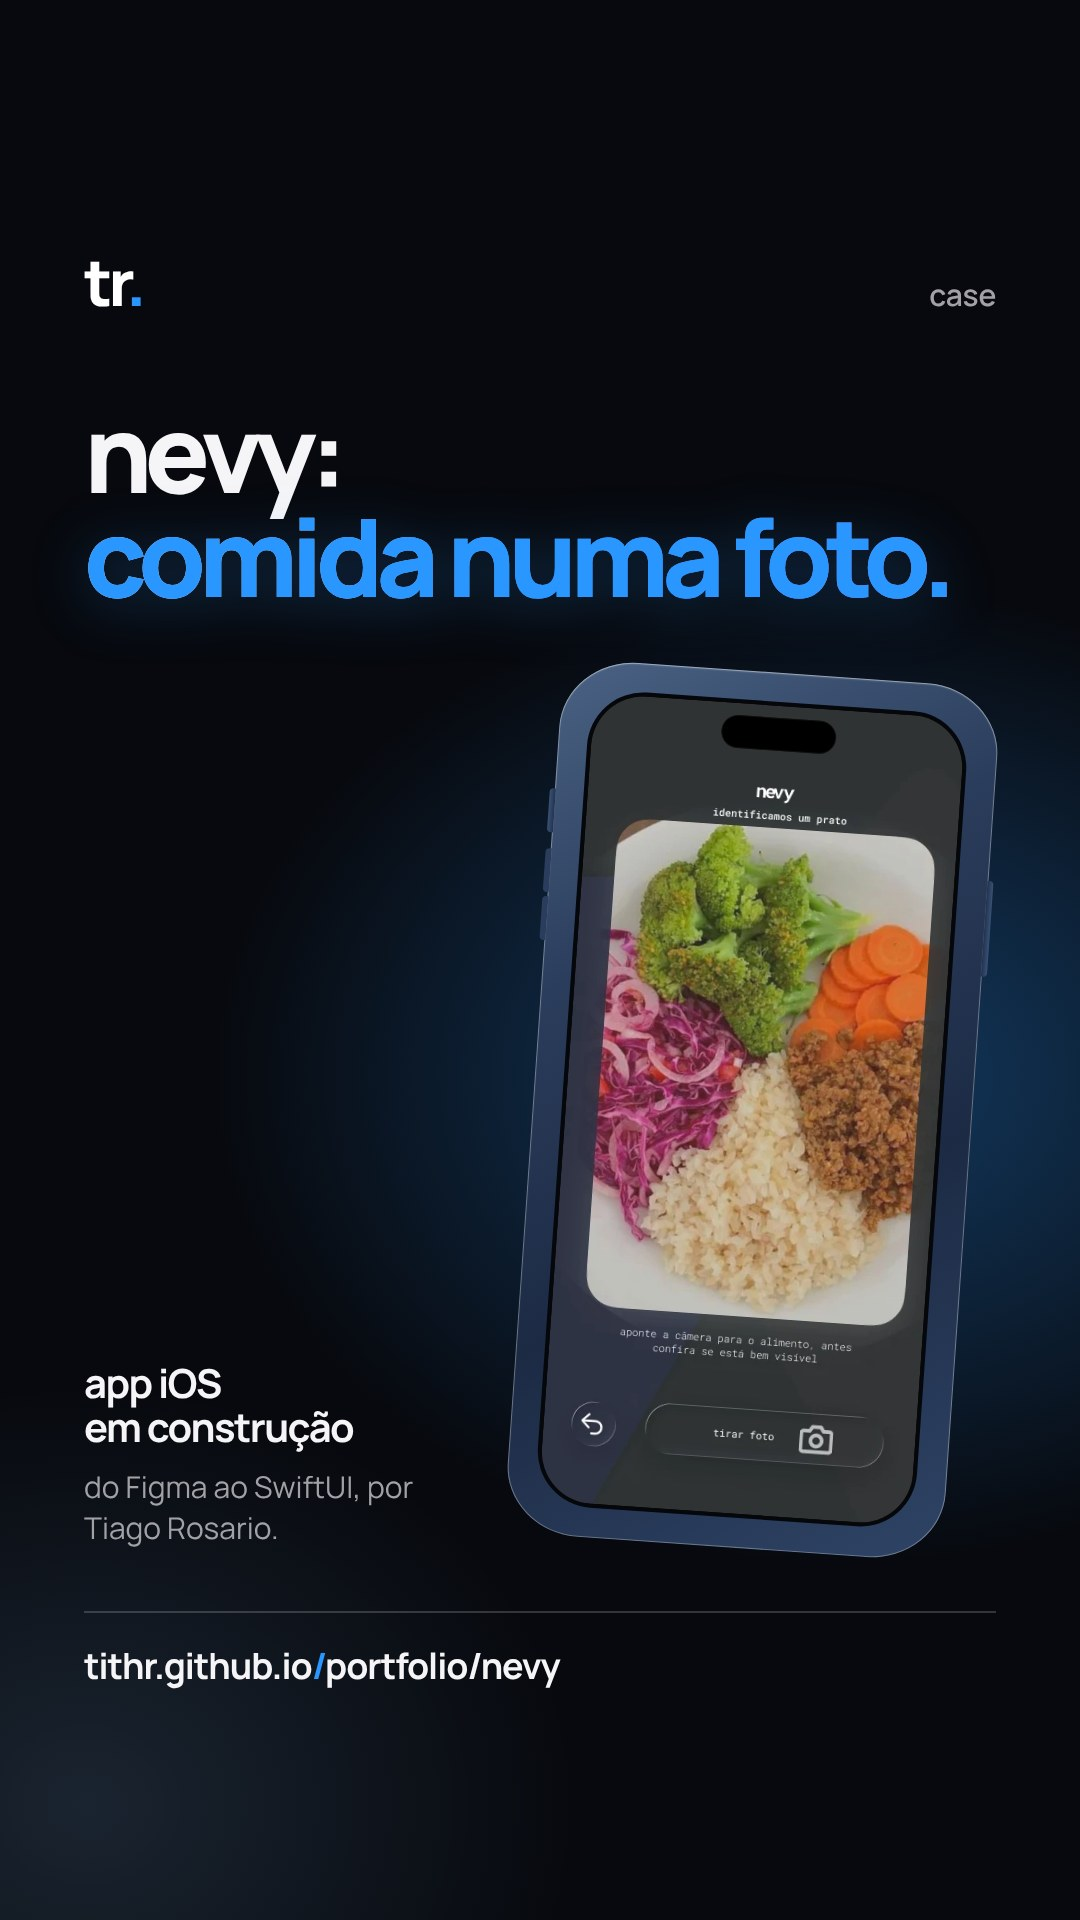
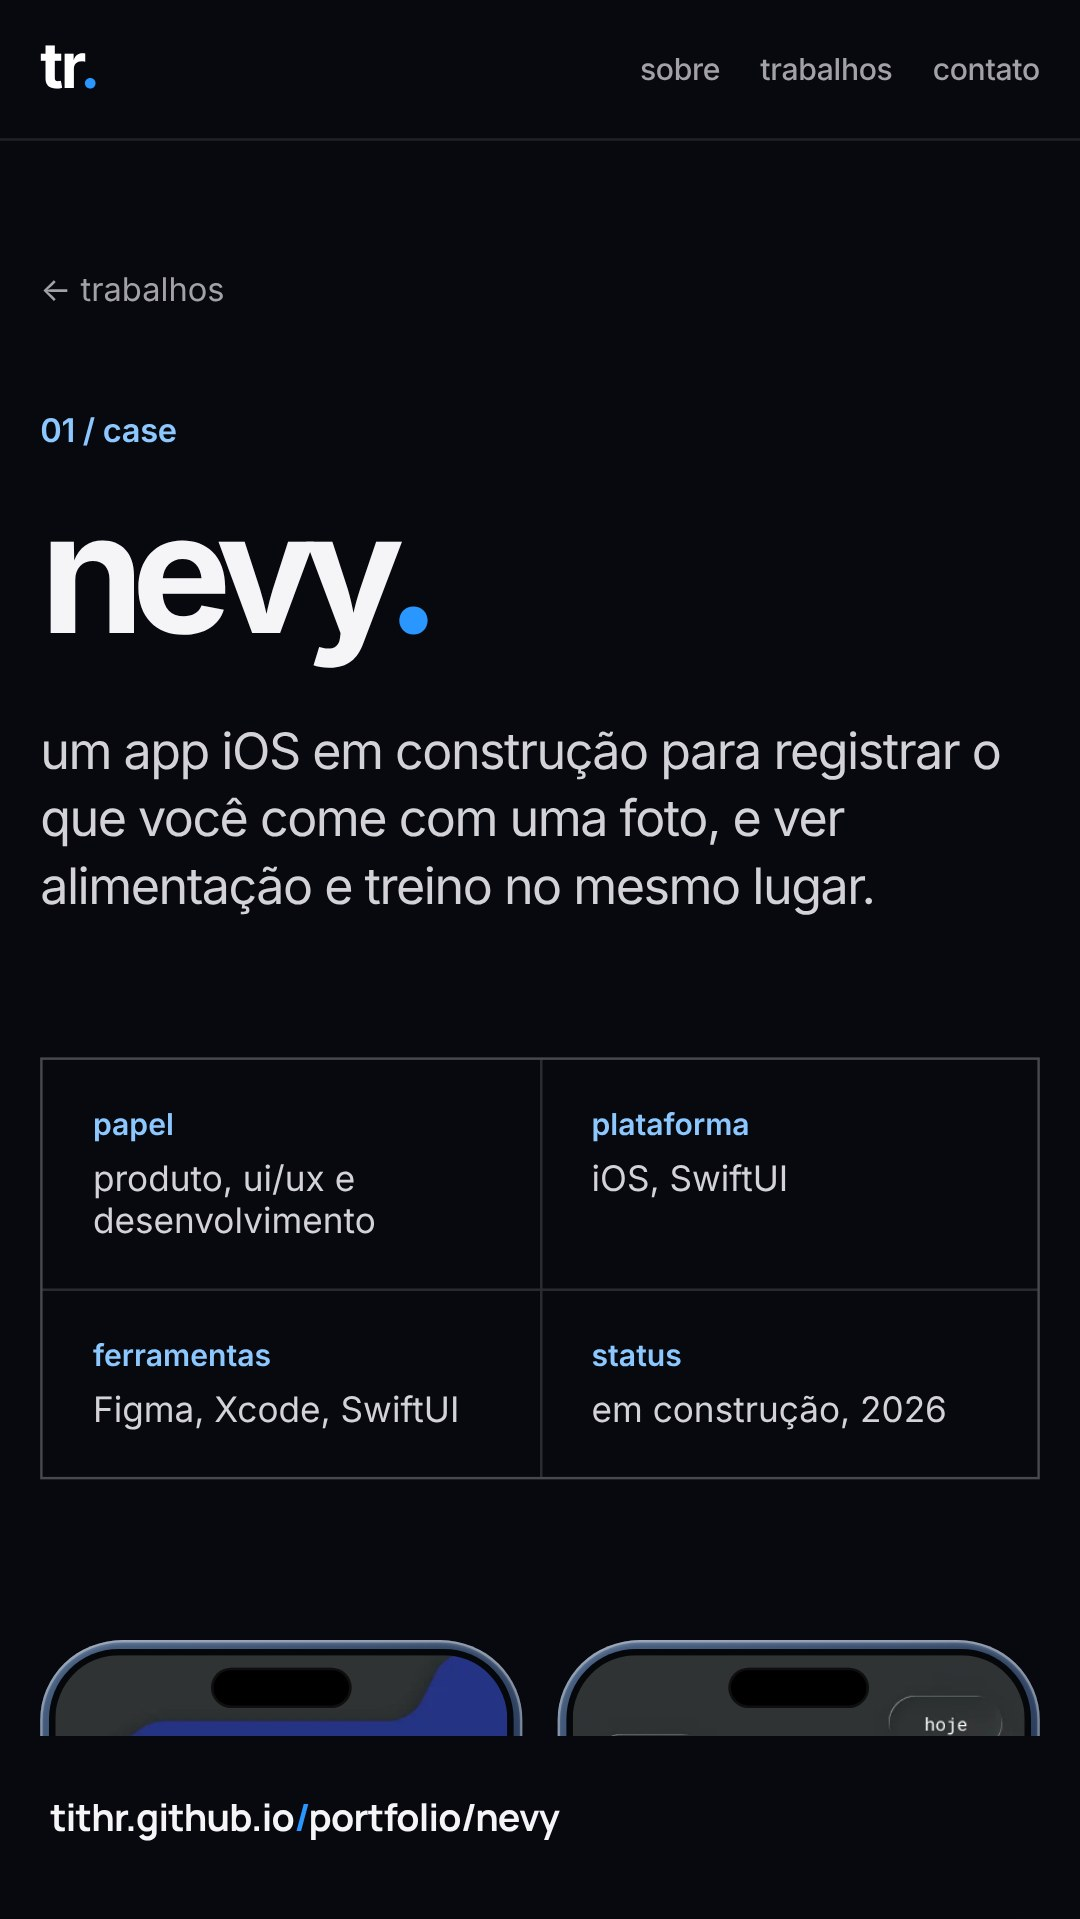
Story: print do início de cada página; tira travessões do guia
Claude-Session: https://claude.ai/code/session_015z2G63p8ibVhGsPnRoC111

diff --git a/tools/make-story.js b/tools/make-story.js
@@ -1,22 +1,29 @@
-// gera as imagens de story (1080 × 1920) em img/story/. Uso: node tools/make-story.js (precisa do Playwright)
+// gera as imagens de story (1080 × 1920) em img/story/: um print da parte inicial de cada página, na versão de celular.
+// Uso: node tools/make-story.js (precisa do Playwright)
 const { chromium } = require('playwright');
 const http = require('http'); const fs = require('fs'); const path = require('path');
 const root = path.join(__dirname, '..');
-const types = { '.html': 'text/html', '.css': 'text/css', '.js': 'text/javascript', '.webp': 'image/webp', '.woff2': 'font/woff2' };
+const types = { '.html': 'text/html', '.css': 'text/css', '.js': 'text/javascript', '.webp': 'image/webp', '.woff2': 'font/woff2', '.svg': 'image/svg+xml' };
+const pages = [['home', 'index.html', 'tithr.github.io/portfolio'], ['nevy', 'nevy.html', 'tithr.github.io/portfolio/nevy'], ['primeiro-commit', 'primeiro-commit.html', 'tithr.github.io/portfolio/primeiro-commit']];
 const server = http.createServer((req, res) => {
   const file = path.join(root, decodeURIComponent(req.url.split('?')[0]));
   fs.readFile(file, (err, data) => { if (err) { res.writeHead(404); res.end(); } else { res.writeHead(200, { 'Content-Type': types[path.extname(file)] || 'application/octet-stream' }); res.end(data); } });
 }).listen(0, async () => {
   const base = `http://localhost:${server.address().port}`;
   const browser = await chromium.launch();
-  for (const name of ['home', 'nevy', 'primeiro-commit']) {
-    const page = await browser.newPage({ viewport: { width: 1080, height: 1920 } });
-    await page.goto(`${base}/tools/story.html?p=${name}`);
-    await page.evaluate(() => document.fonts.load('800 100px Manrope'));
-    await page.evaluate(() => Promise.all([...document.images].map((i) => i.decode().catch(() => {}))));
-    await page.waitForTimeout(400);
+  const scale = 1080 / 430;
+  for (const [name, file, url] of pages) {
+    const ctx = await browser.newContext({ viewport: { width: 430, height: 764 }, deviceScaleFactor: scale, locale: 'pt-BR'});
+    const page = await ctx.newPage();
+    await page.goto(`${base}/${file}`);
+    await page.evaluate(() => document.fonts.ready);
+    await page.addStyleTag({ content: `.lang-switch{display:none!important}
+      .story-url{position:fixed;left:0;right:0;bottom:0;padding:22px 20px 30px;background:#07090e;box-sizing:border-box;font:700 15px Manrope,sans-serif;letter-spacing:-.02em;color:#f5f5f7;z-index:99}
+      .story-url span{color:#2997ff}` });
+    await page.evaluate((u) => { const d = document.createElement('div'); d.className = 'story-url'; d.innerHTML = u.replace('tithr.github.io', 'tithr.github.io<span>/</span>').replace('<span>/</span>/', '<span>/</span>'); document.body.appendChild(d); }, url);
+    await page.waitForTimeout(1500);
     await page.screenshot({ path: path.join(root, 'img/story', `${name}.jpg`), type: 'jpeg', quality: 88 });
-    await page.close();
+    await ctx.close();
   }
   await browser.close(); server.close();
 });

diff --git a/primeiro-commit.html b/primeiro-commit.html
@@ -41,7 +41,7 @@
         <a class="case-back" href="./#trabalhos" data-i18n="case.back">← trabalhos</a>
         <p class="eyebrow" data-i18n="pc.eyebrow">02 / projeto</p>
         <h1 data-i18n="pc.h1">primeiro commit<span>.</span></h1>
-        <p class="case-lead" data-i18n="pc.lead">cinco passos para colocar sua primeira ideia no GitHub. a página é o projeto — role e siga.</p>
+        <p class="case-lead" data-i18n="pc.lead">cinco passos para colocar sua primeira ideia no GitHub. a página é o projeto: role e siga.</p>
         <dl class="case-meta">
           <div><dt data-i18n="case.role.t">papel</dt><dd data-i18n="pc.role.d">ideia, texto, design e código</dd></div>
           <div><dt data-i18n="pc.kind.t">tipo</dt><dd data-i18n="pc.kind.d">página interativa</dd></div>
@@ -158,7 +158,7 @@ git push -u origin main</code><button type="button" class="copy" data-i18n="pc.c
         <p class="eyebrow" data-i18n="pc.learn.e">aprendizado</p>
         <div class="case-copy">
           <h2 data-i18n="pc.learn.h">o que eu faria diferente.</h2>
-          <p data-i18n="pc.learn.p">comecei escrevendo tudo corrido e não funcionava. quem está começando se perde no meio de um parágrafo longo. quebrar em passos que abrem um por vez, com uma caixa para marcar, mudou tudo. na próxima versão quero repensar o passo 4 — ele depende de uma tela do GitHub que muda de tempos em tempos.</p>
+          <p data-i18n="pc.learn.p">comecei escrevendo tudo corrido e não funcionava. quem está começando se perde no meio de um parágrafo longo. quebrar em passos que abrem um por vez, com uma caixa para marcar, mudou tudo. na próxima versão quero repensar o passo 4, porque ele depende de uma tela do GitHub que muda de tempos em tempos.</p>
         </div>
       </section>
 
@@ -176,7 +176,7 @@ git push -u origin main</code><button type="button" class="copy" data-i18n="pc.c
       <a href="https://github.com/tithr" target="_blank" rel="noreferrer">github ↗</a>
       <span class="footer-note" data-i18n="footer.privacy">sem cookies. As visitas são contadas de forma anônima.</span>
     </footer>
-    <script src="i18n.js?v=8"></script>
+    <script src="i18n.js?v=9"></script>
     <script src="lenis.min.js"></script>
     <script src="site.js?v=2"></script>
     <script>

diff --git a/i18n.js b/i18n.js
@@ -128,7 +128,7 @@
     'title.pc': 'first commit · Tiago Rosario',
     'pc.eyebrow': '02 / project',
     'pc.h1': 'first commit<span>.</span>',
-    'pc.lead': 'five steps to get your first idea on GitHub. the page is the project — scroll and follow along.',
+    'pc.lead': 'five steps to get your first idea on GitHub. the page is the project: scroll and follow along.',
     'pc.role.d': 'idea, writing, design and code',
     'pc.kind.t': 'type', 'pc.kind.d': 'interactive page',
     'pc.tools.d': 'html, css and javascript',
@@ -167,7 +167,7 @@
     'pc.finish': 'done. Your first idea is public, address and all.',
     'pc.learn.e': 'what i learned',
     'pc.learn.h': 'what i would do differently.',
-    'pc.learn.p': 'i started writing everything as running text and it did not work. beginners get lost in the middle of a long paragraph. breaking it into steps that open one at a time, each with a box to tick, changed everything. in the next version i want to rethink step 4 — it depends on a GitHub screen that changes every so often.'
+    'pc.learn.p': 'i started writing everything as running text and it did not work. beginners get lost in the middle of a long paragraph. breaking it into steps that open one at a time, each with a box to tick, changed everything. in the next version i want to rethink step 4, because it depends on a GitHub screen that changes every so often.'
   };
 
   const KEY = 'tr-lang';

diff --git a/nevy.html b/nevy.html
@@ -212,7 +212,7 @@ let adjusted = max(daily * profile.goal.factor, basal)</code></pre>
       <a href="https://github.com/tithr" target="_blank" rel="noreferrer">github ↗</a>
       <span class="footer-note" data-i18n="footer.privacy">sem cookies. As visitas são contadas de forma anônima.</span>
     </footer>
-    <script src="i18n.js?v=8"></script>
+    <script src="i18n.js?v=9"></script>
     <script src="lenis.min.js"></script>
     <script src="site.js?v=2"></script>
   </body>

diff --git a/index.html b/index.html
@@ -116,7 +116,7 @@
       <a href="https://github.com/tithr" target="_blank" rel="noreferrer">github ↗</a>
       <span class="footer-note" data-i18n="footer.privacy">sem cookies. As visitas são contadas de forma anônima.</span>
     </footer>
-    <script src="i18n.js?v=8"></script>
+    <script src="i18n.js?v=9"></script>
     <script src="lenis.min.js"></script>
     <script src="site.js?v=2"></script>
   </body>

diff --git a/404.html b/404.html
@@ -36,6 +36,6 @@
       <span data-i18n="footer.made">feito em minúsculas</span>
       <a href="https://github.com/tithr" target="_blank" rel="noreferrer">github ↗</a>
     </footer>
-    <script src="/portfolio/i18n.js?v=8"></script>
+    <script src="/portfolio/i18n.js?v=9"></script>
   </body>
 </html>

diff --git a/README.md b/README.md
@@ -10,7 +10,7 @@ Site estático em HTML, CSS e JavaScript, publicado pelo GitHub Pages em https:/
 - `i18n.js`: textos em inglês.
 - `fonts/manrope.woff2`: fonte hospedada aqui, sem Google Fonts (licença em `fonts/OFL.txt`).
 - `img/og/`: imagens de 1200 × 630 que aparecem ao compartilhar os links.
-- `img/story/`: imagens 1080 × 1920 do botão "compartilhar no story" (uma por página). Para refazer: `node tools/make-story.js`; o molde é `tools/story.html`.
+- `img/story/`: prints 1080 × 1920 do início de cada página, usados pelo botão "compartilhar no story". Para refazer depois de mudar o site: `node tools/make-story.js`.
 - `sitemap.xml`: para enviar ao Google Search Console.
 
 ## regras
